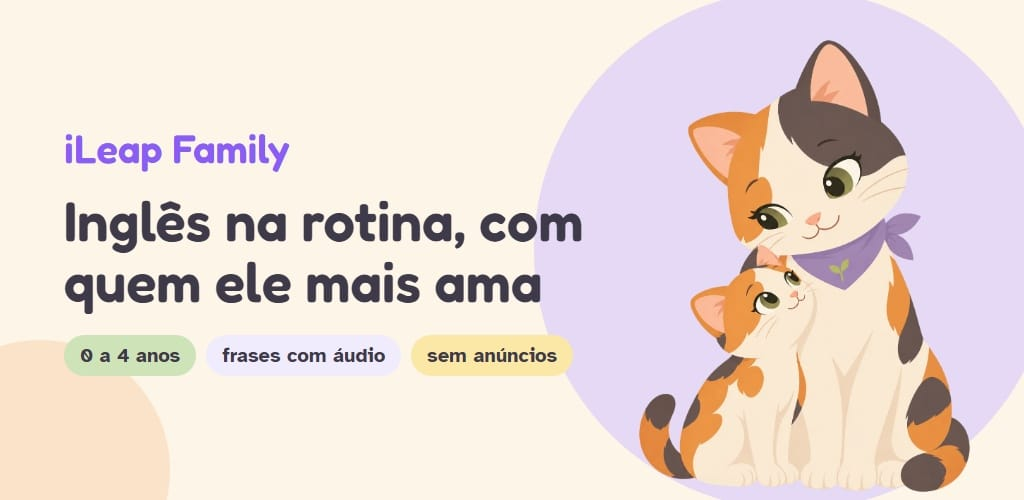
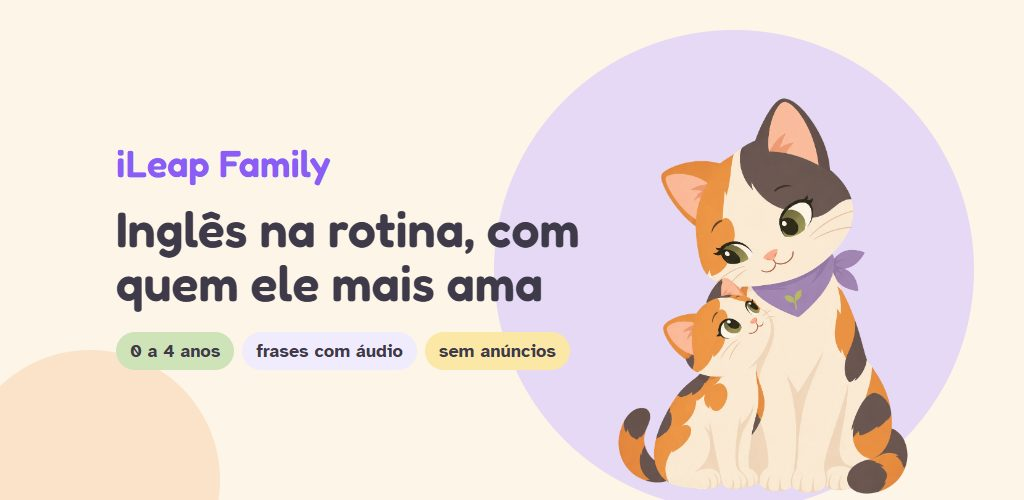
iLeap Family: vídeo do YouTube e link do canal (#3)
* iLeap Family: vídeo do YouTube e link do canal

* Ponte: recado do vídeo do iLeap Family

* iLeap Family: capa do site sem corte no cartão

* Ponte: recado inclui a capa nova do iLeap Family

diff --git a/projetos/ileap-family/dados.js b/projetos/ileap-family/dados.js
@@ -31,11 +31,15 @@ SM_PROJETO({
     { src: "img/5.jpg", alt: "Brincadeiras e músicas para cada semana" },
     { src: "img/6.jpg", alt: "Um certificado a cada fase, em PDF e em imagem para os stories" }
   ],
-  videos: [],
+  videos: [
+    { youtube: "ng-B7ysxl2I", titulo: "Conheça a Lee e o iLeap Family", formato: "deitado" }
+  ],
   lojas: [
     { rotulo: "Usar no navegador", url: "https://ileap-family.web.app" }
   ],
-  redes: [],
+  redes: [
+    { rotulo: "YouTube", url: "https://www.youtube.com/@iLeapFamily" }
+  ],
   contato: "contato@studiomagalhaes.com.br",
   apoio: {
     qr: "img/apoio-qr.png",

diff --git a/PONTE.md b/PONTE.md
@@ -105,6 +105,14 @@ Regras: as mesmas do site (nada de "ganhe dinheiro", nem a palavra "Pix", nem pr
 
 ## Recados (o mais novo em cima)
 
+### 03/11/2026, Claude do dono do iLeap (Laís)
+**Vídeo e capa do iLeap Family no site** (`projetos/ileap-family/dados.js`):
+- `videos`: o vídeo de 30 s do app (a Lee apresentando o iLeap Family), no canal novo do YouTube **iLeap Family** (https://youtu.be/ng-B7ysxl2I), formato `"deitado"`.
+- `redes`: link do canal, https://www.youtube.com/@iLeapFamily.
+- `img/capa.jpg`: capa nova só para o site, com o texto e as gatas mais para o meio. A Laís viu que o cartão da página inicial (corte 16:9) cortava o começo do texto. Conferido no cartão (computador e celular) e no topo da página do projeto (corte 1024:400). A capa da Google Play continua a mesma.
+- Nada mais mudou. O Pix do iLeap e do iLeap Family (do recado do Paulo, logo abaixo) foi conferido: os 3 códigos copia e cola estão certos e o QR lê igual ao código. Só um detalhe para o Paulo, se quiser: a cidade gravada nos QR é "SAO PAULO", e a MEI é de Niterói. Não impede o pagamento.
+- **Faltam:** o Android do iLeap Family, quando sair na Google Play.
+
 ### 03/11/2026, Claude do Paulo (outdoors do Zero to CEO)
 - **Novo: `outdoors.json` na raiz e a pasta `outdoors/`** (explicados na parte "Outdoors do Zero to CEO", acima). A pedido do Paulo, o jogo Zero to CEO ganhou 5 outdoors na cidade com os projetos do estúdio, e eles leem este arquivo.
 - Na lista estão o estúdio, o AstroGoo, o Desbrava, o iLeap Family e o Zero to CEO. O iLeap ficou de fora porque ainda não tem texto nem imagem: quando tiver, é só pedir aqui.
